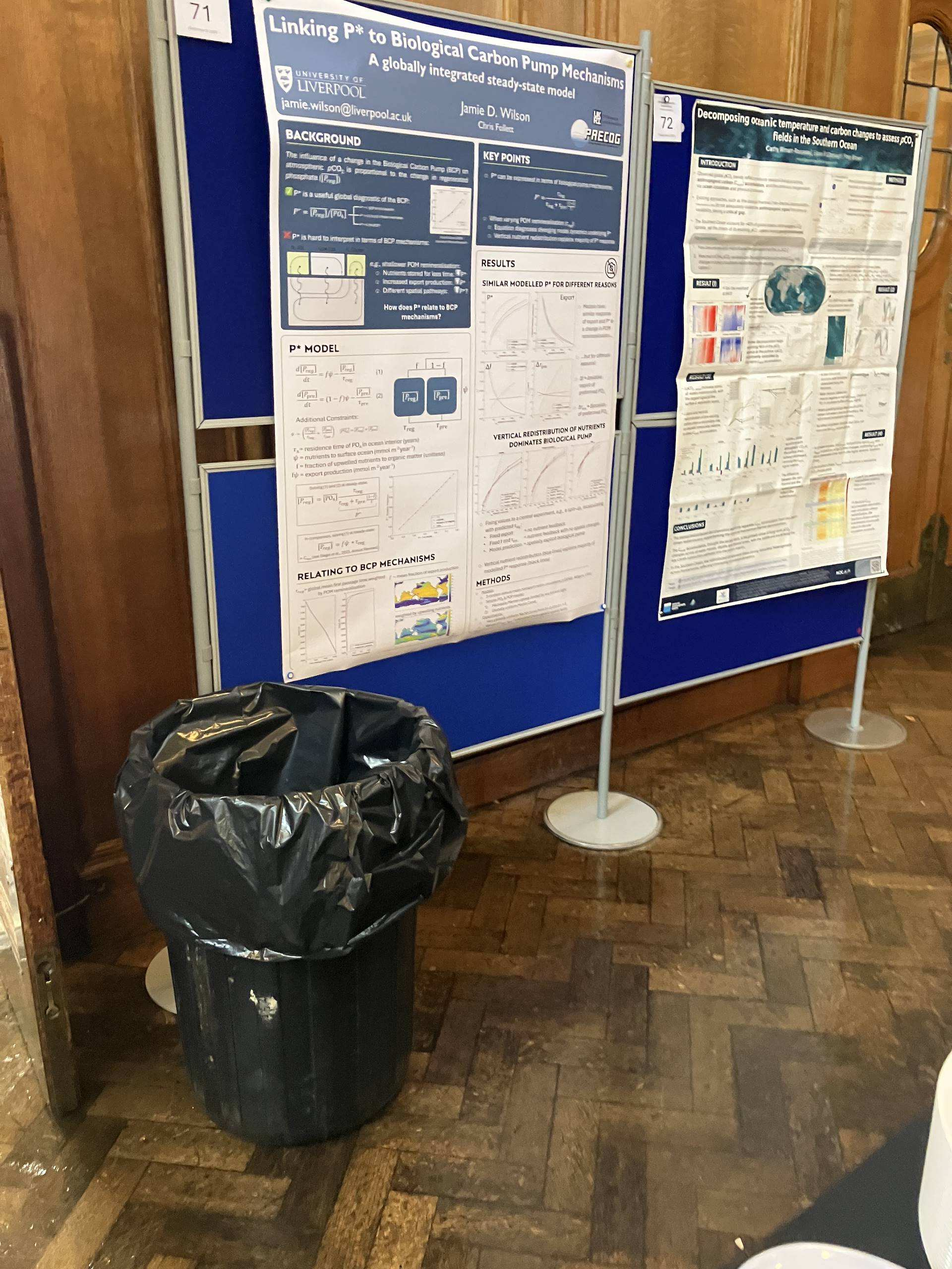
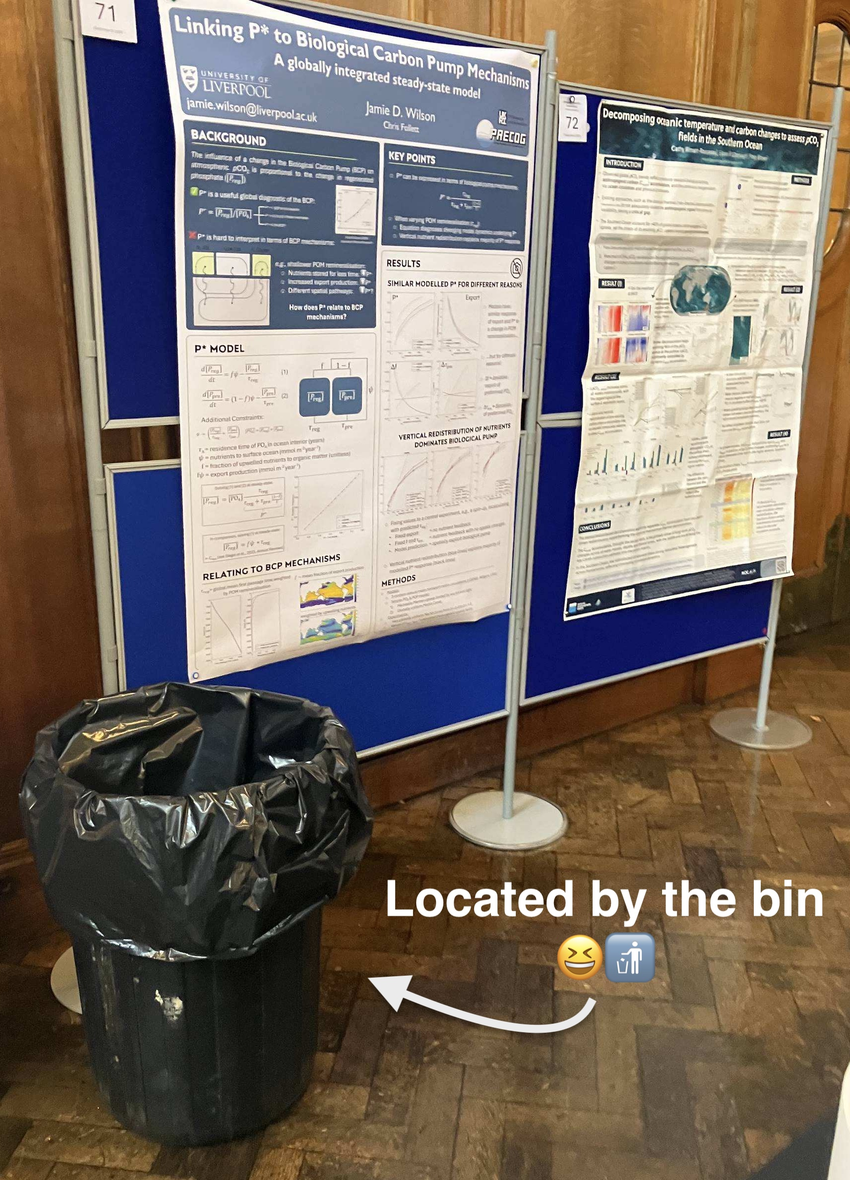
tweaks to challenger post

diff --git a/_pages/about.md b/_pages/about.md
@@ -1,15 +1,20 @@
 ---
 permalink: /about/
-title: "About"
+title: ""
 classes: wide
 header:
   video:
     id: ItRmAInrZWs
     provider: youtube
+toc: false
+toc_label: "Contents" # default: Content
+toc_icon: "cog"  # corresponding Font Awesome icon name without the "fa" prefix
 ---
 
-The Biological Carbon Pump is a natural reservoir of carbon in our Earth System. It stores carbon in the ocean by plankton (microscopic plants) taking up CO2 as they grow in the surface ocean. The sinking remains of these plankton carry the carbon into the deep ocean locking it away for hundreds to thousands of years. This carbon pool is equivalent in size to the anthropogenically-driven increase in atmospheric CO2 over the 20th century. The Biological Carbon Pump is widely expected to be sensitive to environmental change and could therefore release CO2 in the future. However, we have limited knowledge of what those changes might be and why because we don't have the necessary outputs from the state-of-the-art future projections by Earth System Models that underpin the Intergovernmental Panel on Climate Change (IPCC) reports that inform social, economic and political decisions about Climate Change.
+# What is the Biological Pump?
+The Biological Carbon Pump is a natural reservoir of carbon in our Earth System. It stores carbon in the ocean by plankton (microscopic plants) taking up CO<sub>2</sub> as they grow in the surface ocean. The sinking remains of these plankton carry the carbon into the deep ocean locking it away for hundreds to thousands of years. This carbon pool is equivalent in size to the anthropogenically-driven increase in atmospheric CO<sub>2</sub> over the 20<sup>th</sup> century. The Biological Carbon Pump is widely expected to be sensitive to environmental change and could therefore release CO<sub>2</sub> in the future. However, we have limited knowledge of what those changes might be and why because we don't have the necessary outputs from the state-of-the-art future projections by Earth System Models that underpin the Intergovernmental Panel on Climate Change (IPCC) reports that inform social, economic and political decisions about Climate Change.
 
+# What is PRECOG?
 PREdicting biological Carbon in the Ocean Globally (PRECOG) is a team of experts at the University of Liverpool comprehensively exploring the future of the Biological Carbon Pump using state-of-the-art Earth System Model projections. PRECOG will strategically align with an international network of researchers and industry partners to build a new knowledge framework that will inform future IPCC reports and mitigation strategies.
 
 PRECOG will:
